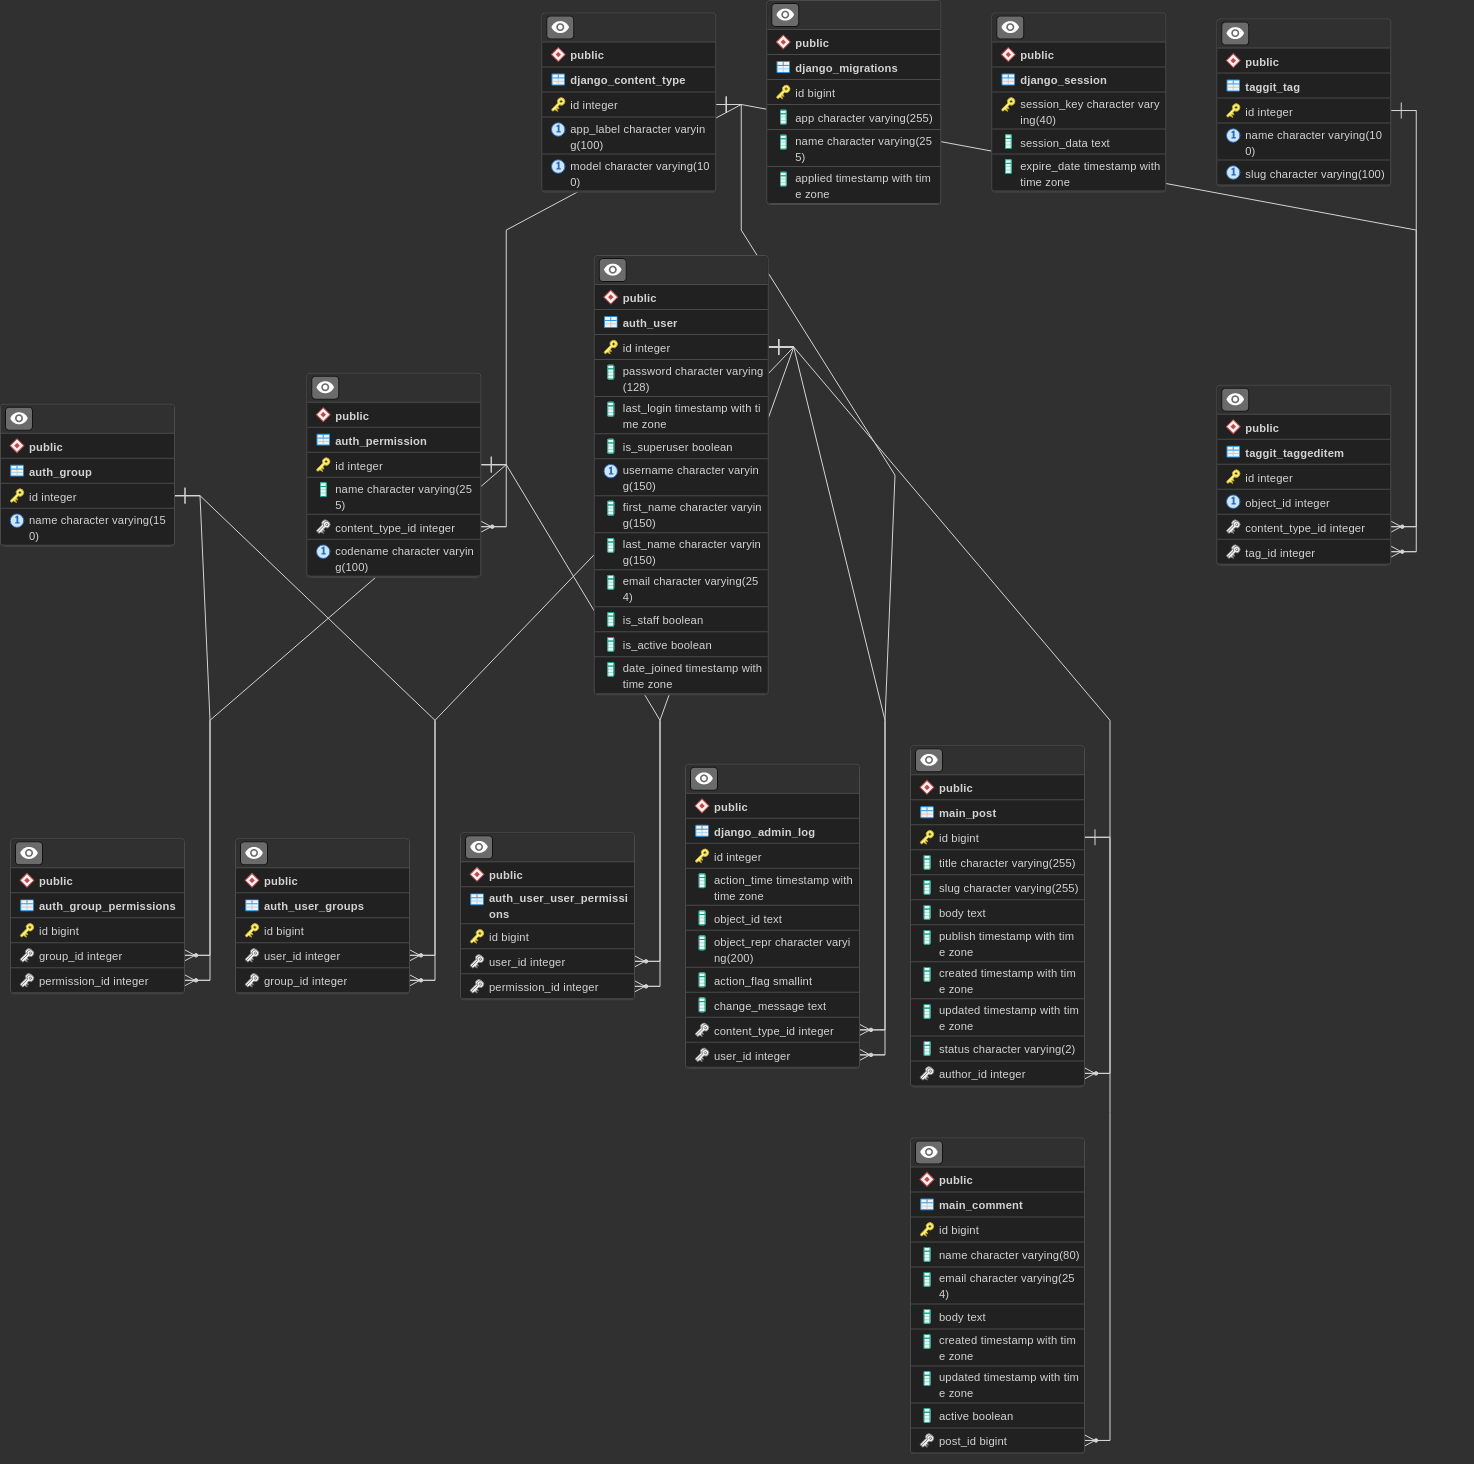
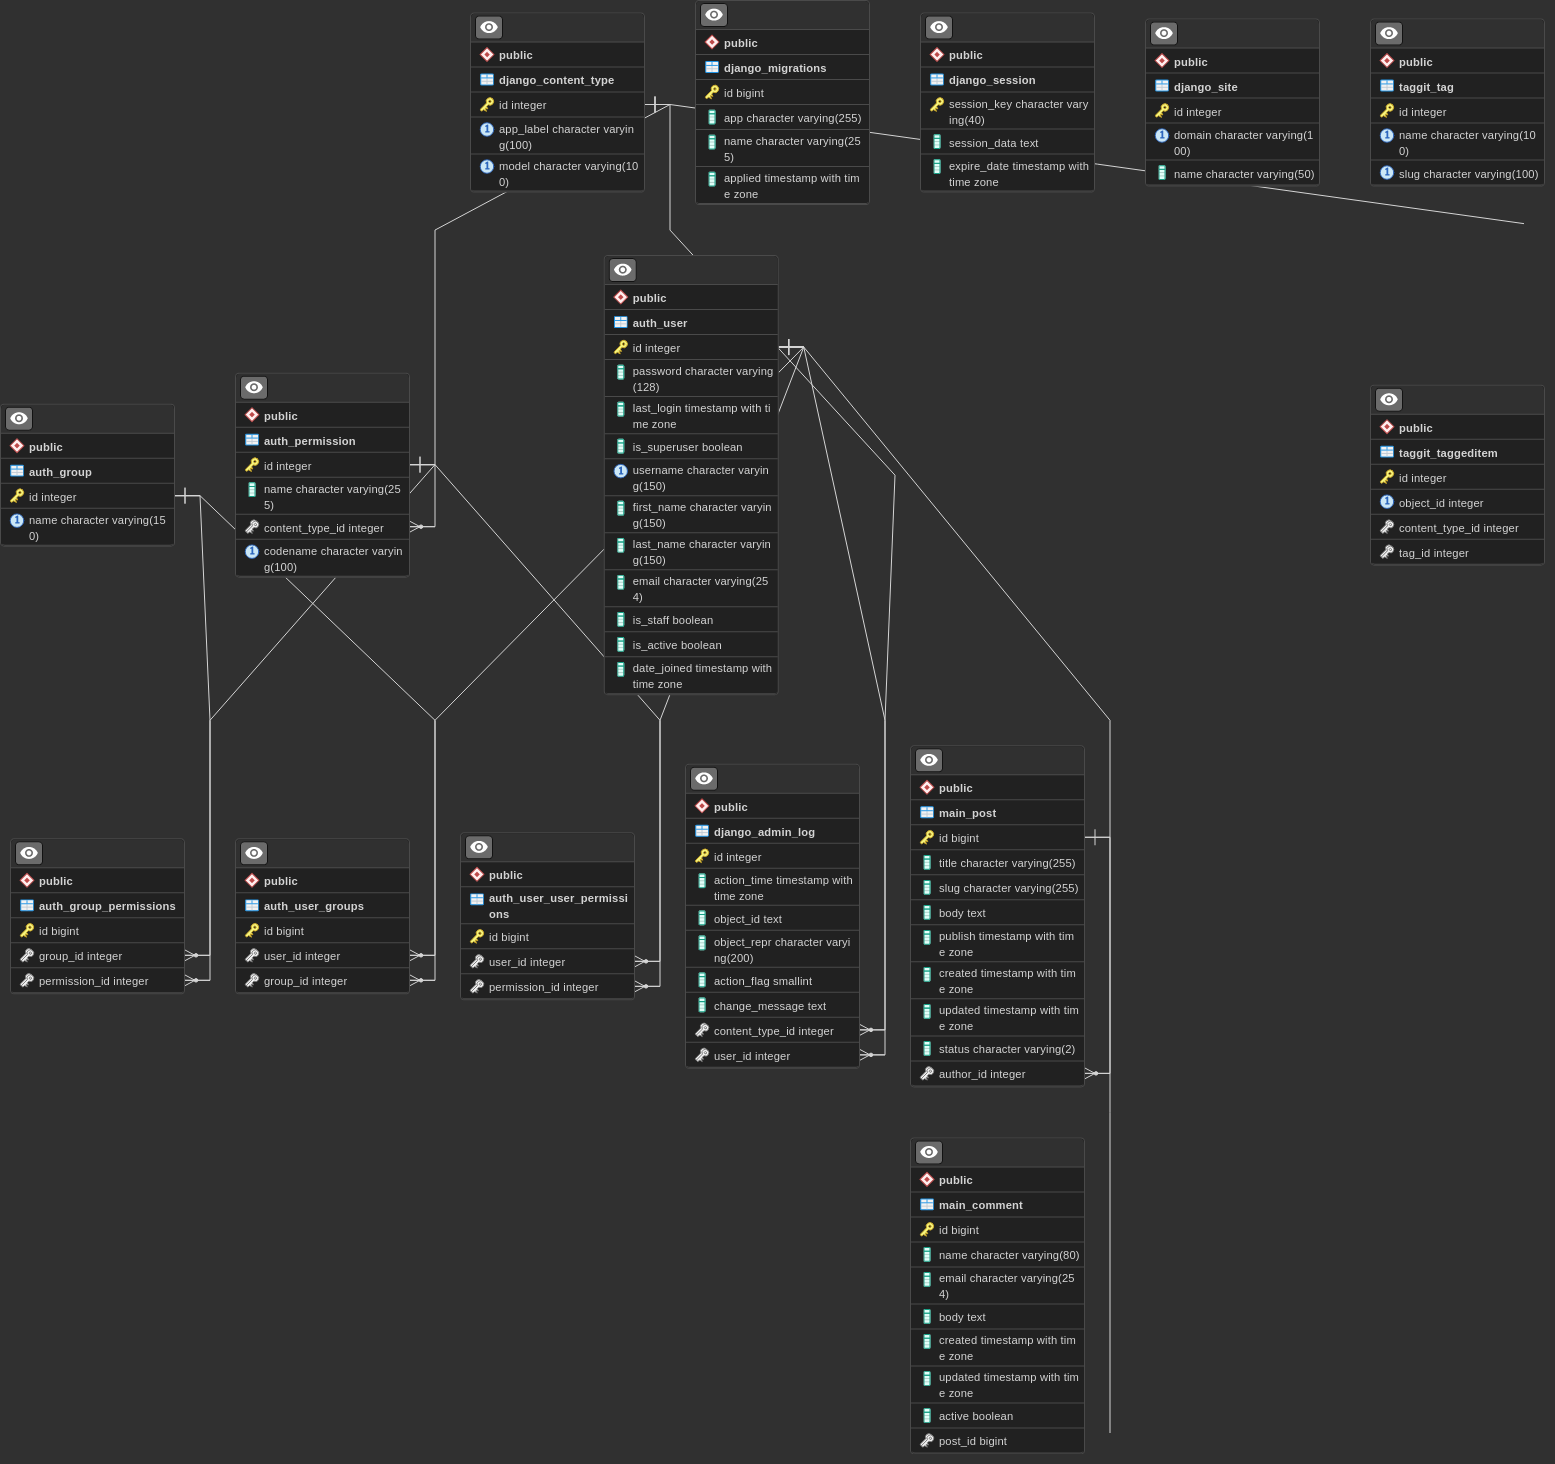
Implement sitemap for post feeds

diff --git a/blog/urls.py b/blog/urls.py
@@ -17,11 +17,17 @@ from django.contrib import admin
 from django.urls import path, include
 from django.conf import settings
 from django.conf.urls.static import static
+from django.contrib.sitemaps.views import sitemap
+from main.sitemaps import PostSitemap
+
+sitemaps = {"posts": PostSitemap}
 
 urlpatterns = [
     path('admin/', admin.site.urls),
     # Add main app's url to the project urls
     path("main/", include("main.urls", namespace="main")),
+    # Define site map url mapper
+    path("sitemap.xml", sitemap, {"sitemaps": sitemaps}, name="django.contrib.sitemaps.views.sitemap"),
 ]
 
 if settings.DEBUG:

diff --git a/main/sitemaps.py b/main/sitemaps.py
@@ -1,0 +1,16 @@
+from django.contrib.sitemaps import Sitemap
+from main.models import Post
+
+
+class PostSitemap(Sitemap):
+    # Add site map for seo optimizations
+    changefreq = "weekly"
+    priority = 1
+
+    def items(self):
+        # Define items for site map feeds
+        return Post.published.all()
+
+    def lastmode(self, obj):
+        # Returns the last time items were updated
+        return obj.updated

diff --git a/blog/settings.py b/blog/settings.py
@@ -30,6 +30,9 @@ DEBUG = True
 
 ALLOWED_HOSTS = []
 
+# Add site id to enable site maps
+SITE_ID = 1
+
 # Application definition
 
 INSTALLED_APPS = [
@@ -43,6 +46,10 @@ INSTALLED_APPS = [
     'main',
     # Add taggit third-party app tp enable tag feature
     'taggit',
+    # Add sites and sitemaps to enable site maps
+    'django.contrib.sites',
+    'django.contrib.sitemaps',
+
 ]
 
 MIDDLEWARE = [
